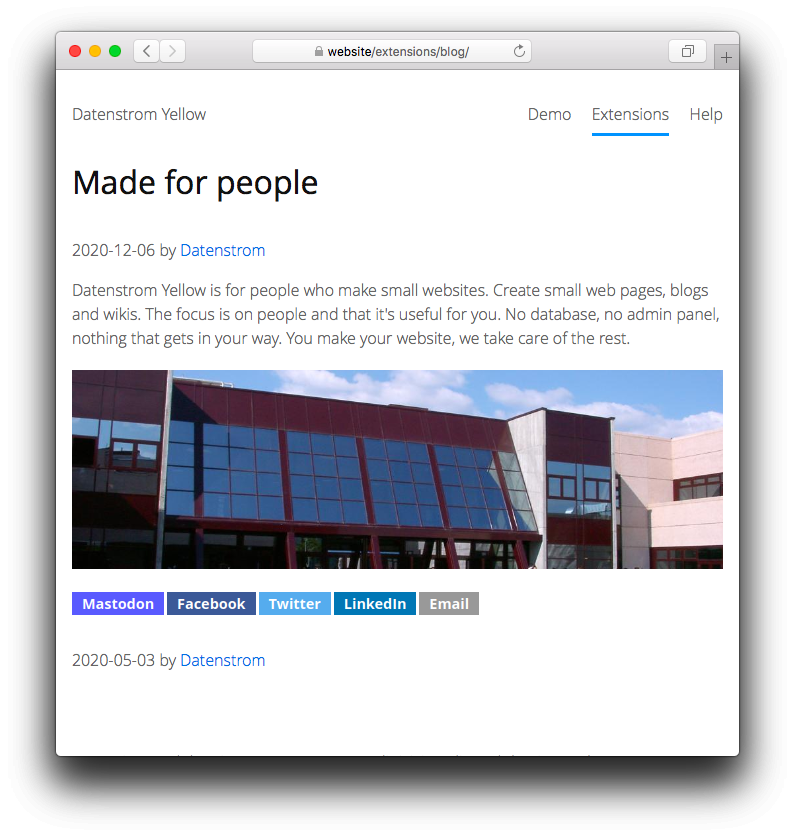
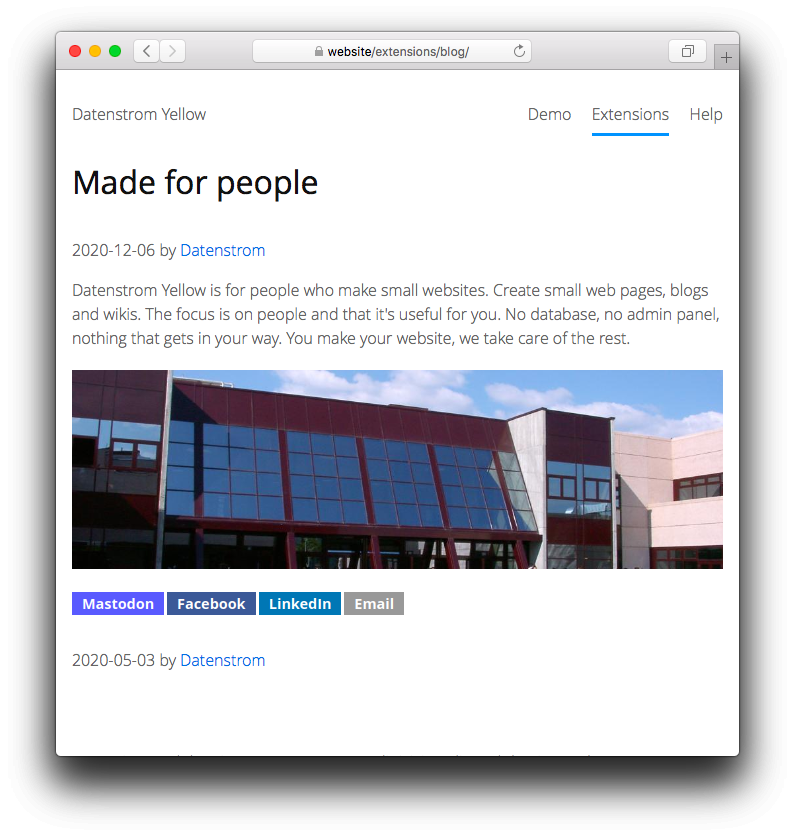
Updated services

Changed region(s): [[0.3019, 0.6842, 0.6038, 0.7464]]

diff --git a/minishare-rounded.css b/minishare-rounded.css
@@ -25,15 +25,17 @@
     opacity: 0.5;
     box-shadow: none;
 }
+.minishare a.minishare-bluesky { background-color: #1080f5 }
 .minishare a.minishare-email { background-color: #ed1c24 }
 .minishare a.minishare-facebook { background-color: #3b5998 }
-.minishare a.minishare-flattr { background-color: #7ea352 }
+.minishare a.minishare-flipboard { background-color: #f52828 }
 .minishare a.minishare-linkedin { background-color: #0077b5 }
 .minishare a.minishare-mastodon { background-color: #595aff }
 .minishare a.minishare-pinterest { background-color: #bd081c }
 .minishare a.minishare-reddit { background-color: #ff4500 }
 .minishare a.minishare-telegram { background-color: #0088cc }
 .minishare a.minishare-tumblr { background-color: #36465d }
-.minishare a.minishare-twitter { background-color: #55acee }
+.minishare a.minishare-x { background-color: #000000 }
+.minishare a.minishare-vk { background-color: #0077ff }
 .minishare a.minishare-whatsapp { background-color: #5cbe4a }
 .minishare a /* fallback */ { background-color: #999999 }

diff --git a/minishare-squared.css b/minishare-squared.css
@@ -22,6 +22,7 @@
 .minishare a:active {
     opacity: 0.5;
 }
+.minishare a.minishare-bluesky { background-color: #1080f5 }
 .minishare a.minishare-email { background-color: #ed1c24 }
 .minishare a.minishare-facebook { background-color: #3b5998 }
 .minishare a.minishare-flipboard { background-color: #f52828 }
@@ -31,7 +32,7 @@
 .minishare a.minishare-reddit { background-color: #ff4500 }
 .minishare a.minishare-telegram { background-color: #0088cc }
 .minishare a.minishare-tumblr { background-color: #36465d }
-.minishare a.minishare-twitter { background-color: #55acee }
+.minishare a.minishare-x { background-color: #000000 }
 .minishare a.minishare-vk { background-color: #0077ff }
 .minishare a.minishare-whatsapp { background-color: #5cbe4a }
 .minishare a /* fallback */ { background-color: #999999 }

diff --git a/minishare.php b/minishare.php
@@ -8,8 +8,8 @@ class YellowMinishare {
     // Handle initialisation
     public function onLoad($yellow) {
         $this->yellow = $yellow;
-        $this->yellow->system->setDefault("minishareServices", "facebook, twitter, linkedin, email");
-        $this->yellow->system->setDefault("minishareTwitterUser", "");
+        $this->yellow->system->setDefault("minishareServices", "facebook, x, linkedin, email");
+        $this->yellow->system->setDefault("minishareXUser", "");
         $this->yellow->system->setDefault("minishareStyle", "plain");
         $this->yellow->language->setDefaults(array(
             "Language: en",
@@ -41,6 +41,7 @@ class YellowMinishare {
         $output = null;
         if ($name=="minishare" && ($type=="block" || $type=="inline")) {
             $shareUrls = [
+                'bluesky' => 'https://bsky.app/intent/compose?text={title}%20{url}',
                 'email' => 'mailto:?subject={title}&body={url}',
                 'facebook' => 'https://www.facebook.com/sharer/sharer.php?u={url}',
                 'flipboard' => 'https://share.flipboard.com/bookmarklet/popout?v=2&title={title}&url={url}',
@@ -50,7 +51,7 @@ class YellowMinishare {
                 'reddit' => 'https://reddit.com/submit?url={url}&title={title}',
                 'telegram' => 'https://t.me/share/url?url={url}',
                 'tumblr' => 'http://tumblr.com/widgets/share/tool?canonicalUrl={url}',
-                'twitter' => 'https://twitter.com/intent/tweet?url={url}&text={title}{via}',
+                'x' => 'https://x.com/intent/tweet?url={url}&text={title}{via}',
                 'vk' => 'http://vk.com/share.php?url={url}&title={title}',
                 'whatsapp' => 'whatsapp://send?text={title}%20{url}',
                 // see others: https://github.com/bradvin/social-share-urls
@@ -59,16 +60,17 @@ class YellowMinishare {
                 "linkedin" => "LinkedIn",
                 "whatsapp" => "WhatsApp",
                 "vk" => "VK",
+                "x" => "X",
             ];
             $services = $this->yellow->toolbox->getTextArguments($text);
             if (is_string_empty($services[0])) {
                 $services = preg_split('/\s*,\s*/', $this->yellow->system->get("minishareServices"));
             }
-            $twitteruser = $this->yellow->system->get("minishareTwitterUser");
+            $xUser = $this->yellow->system->get("minishareXUser");
             $values = [
                 "{url}"=>rawurlencode($this->yellow->page->getUrl(true)),
                 "{title}"=>rawurlencode($this->yellow->page->get("title")),
-                "{via}"=>$twitteruser ? "&via=".substr($twitteruser, 1) : "", // no initial @
+                "{via}"=>$xUser ? "&via=".substr($xUser, 1) : "", // no initial @
             ];
             foreach ($services as $service) {
                if (isset($shareUrls[$service])) {

diff --git a/README.md b/README.md
@@ -44,8 +44,8 @@ Layout file with sharing links:
 Configuring different sharing services in the settings:
 
 ```
-MinishareServices: facebook, twitter, linkedin, email
-MinishareServices: mastodon, facebook, twitter, linkedin, email
+MinishareServices: facebook, x, linkedin, email
+MinishareServices: mastodon, facebook, x, linkedin, email
 ```
 
 ## Settings
@@ -53,12 +53,13 @@ MinishareServices: mastodon, facebook, twitter, linkedin, email
 The following settings can be configured in file `system/extensions/yellow-system.ini`:
 
 `MinishareServices` = social sharing services, [supported sharing services](#settings-services)  
-`MinishareTwitterUser` = your Twitter user name, e.g. `@dog_feelings`  
+`MinishareXUser` = your X user name, e.g. `@dog_feelings`  
 `MinishareStyle` = link style, e.g. `plain`, `squared`, `rounded`  
 
 <a id="settings-services"></a>The following sharing services are supported:
 
 `email` = share via email  
+`bluesky` = share on [Bluesky](https://bsky.app)  
 `facebook` = share on [Facebook](https://facebook.com)  
 `flipboard` = share on [Flipboard](https://flipboard.com)  
 `linkedin` = share on [LinkedIn](https://linkedin.com)  
@@ -67,7 +68,7 @@ The following settings can be configured in file `system/extensions/yellow-syste
 `reddit` = share on [Reddit](https://reddit.com)  
 `telegram` = share on [Telegram](https://telegram.org)  
 `tumblr` = share on [Tumblr](https://tumblr.com)  
-`twitter` = share on [Twitter](https://twitter.com)  
+`x` = share on [X](https://x.com)  
 `vk` = share on [VK](https://vk.com)  
 `whatsapp` = share on [Whatsapp](https://whatsapp.com)  
 
